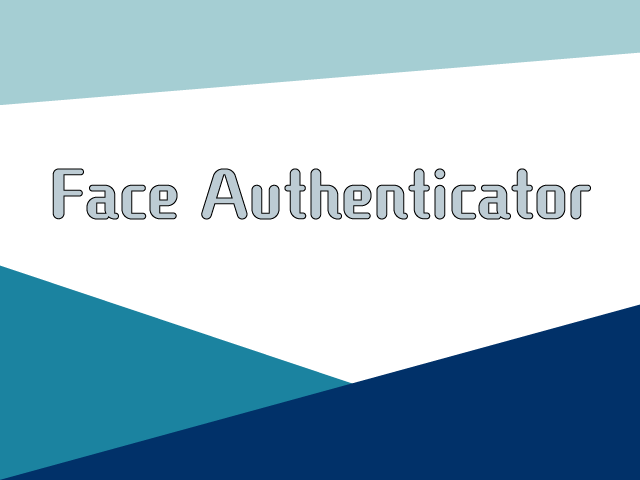
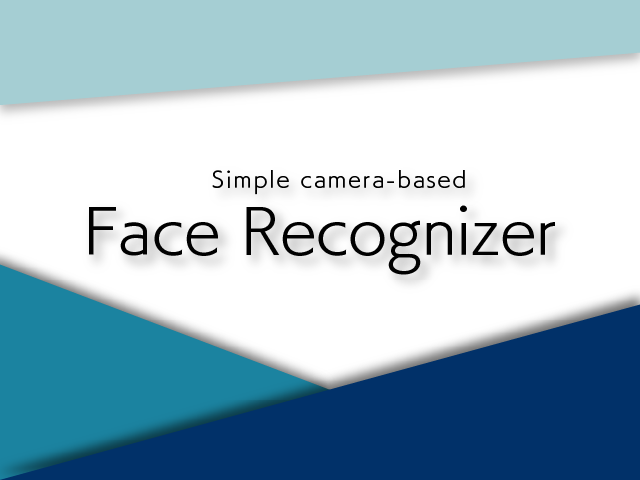
起動前のUIを整える(けんた食堂)

Changed region(s): [[0.0625, 0.3438, 0.9375, 0.5938], [0.0, 0.5312, 1.0, 1.0], [0.0, 0.0938, 1.0, 0.25]]

diff --git a/main.py b/main.py
@@ -3,39 +3,61 @@ import face_recognition
 import numpy as np
 import interface
 
-cap = cv2.VideoCapture(0)
+cap = cv2.VideoCapture(2)
 
-interface.thumbnail()
-counter = 0
-images = []
-ids = np.empty(0, dtype=np.int32)
-trainerPath = 'trainer/trainer.yml'
+FLAG_ENTRY_OR_AUTHENTICATE = interface.thumbnail()
 
-while True:
+# 登録用
+if FLAG_ENTRY_OR_AUTHENTICATE == 1:
+    counter = 0
+    images = []
+    ids = []
+    trainerPath = 'trainer/trainer.yml'
 
-    ret, img = cap.read()
-    if ret and counter < 20:
-        cv2.imshow('Entry', img)
-        auth = face_recognition.entry(img)
-        detected = auth.detect()
-        if detected is not None and len(detected) > 0:
-            images.append(detected)
-            ids = np.append(ids, counter)
+    while True:
+
+        ret, img = cap.read()
+        if ret and counter < 20:
+            cv2.imshow('Entry', img)
+            auth = face_recognition.entry(img)
+            detected = auth.detect()
+            if detected is not None and len(detected) > 0:
+                images.append(detected)
+                ids.append(counter)
+                counter += 1
+        
+        if counter == 20:
+            cv2.destroyWindow('Entry')
+            auth.register(trainerPath, images, ids)
             counter += 1
-    
-    if counter == 20:
-        cv2.destroyWindow('Entry')
-        auth.register(trainerPath, images, ids)
-        counter += 1
-        continue
+            continue
 
-    if ret and counter > 20:
-        recognized = face_recognition.authentication(trainerPath).recognize(img)
-        cv2.imshow('recognized', recognized)
-            
-    key = cv2.waitKey(1)
-    if key==ord('q'):
-        break
+        if ret and counter > 20:
+            recognized = face_recognition.authentication(trainerPath).recognize(img)
+            cv2.imshow('recognized', recognized)
+                
+        key = cv2.waitKey(1)
+        if key==ord('q'):
+            break
+
+# 認証用
+elif FLAG_ENTRY_OR_AUTHENTICATE == 2:
+    counter = 0
+    images = []
+    ids = []
+    trainerPath = 'trainer/trainer.yml'
+
+    while True:
+
+        ret, img = cap.read()
+
+        if ret:
+            recognized = face_recognition.authentication(trainerPath).recognize(img)
+            cv2.imshow('recognized', recognized)
+                
+        key = cv2.waitKey(1)
+        if key==ord('q'):
+            break
 
 
 cap.release()

diff --git a/interface.py b/interface.py
@@ -1,17 +1,55 @@
 import tkinter as tk
+from PIL import Image, ImageTk
+
+root = tk.Tk()
+
+FLAG_ENTRY_OR_AUTHENTICATE = 0
+
+WINDOW_FONT = 'FOT-UD角ゴ_ラージ Pr6N'
+# WINDOW_FONT = 'MS P Gothic'
+
+def center(window, button, y):
+    window.update()  # ウィンドウを更新して描画を完了させる
+    window.update_idletasks()  # ウィンドウの現在のサイズを取得するために必要
+    width = window.winfo_width()
+    button_width = button.winfo_width()
+    print(button_width)
+    x = (width - button_width) // 2
+    button.place(x=x, y=y)
+
+def entrySet():
+    global FLAG_ENTRY_OR_AUTHENTICATE
+    FLAG_ENTRY_OR_AUTHENTICATE = 1
+    root.destroy()
+
+def authenticateSet():
+    global FLAG_ENTRY_OR_AUTHENTICATE
+    FLAG_ENTRY_OR_AUTHENTICATE = 2
+    root.destroy()
 
 def thumbnail():
-    root = tk.Tk()
+    global root
     root.title(u"Face Authenticator")
     root.geometry("640x480")
 
-    # ファイルを参照
-    background = tk.PhotoImage(file="src/thumbnail.png")
+    # 画像の読み込みと背景に設定
+    background_image = Image.open("src/thumbnail.png")  # 画像パスを指定
+    background_photo = ImageTk.PhotoImage(background_image)
 
-    bg = tk.Label(root, image=background)
-    bg.pack(fill="x")
+    background_label = tk.Label(root, image=background_photo)
+    background_label.place(relwidth=1, relheight=1)
+
+    entryButton = tk.Button(root, text="Entry", font=(WINDOW_FONT, '20'), command=entrySet)
+    entryButton.pack()
+    center(root, entryButton, 320)
+
+    authenticateButton = tk.Button(root, text="Authenticate", font=(WINDOW_FONT, '20'), command=authenticateSet)
+    authenticateButton.pack()
+    center(root, authenticateButton, 380)
 
     root.mainloop()
+
+    return FLAG_ENTRY_OR_AUTHENTICATE
 
 def authenticated():
     pass

diff --git a/face_recognition.py b/face_recognition.py
@@ -41,8 +41,6 @@ class entry(object):
         images = [cv2.cvtColor(img, cv2.COLOR_BGR2GRAY) for img in images]
         ids = np.array(ids)
         recognizer = cv2.face.LBPHFaceRecognizer_create()
-        for i in range(len(images)):
-            images[i] = cv2.cvtColor(images[i], cv2.COLOR_BGR2GRAY)
         recognizer.train(images, ids)
         recognizer.write(path)
 
